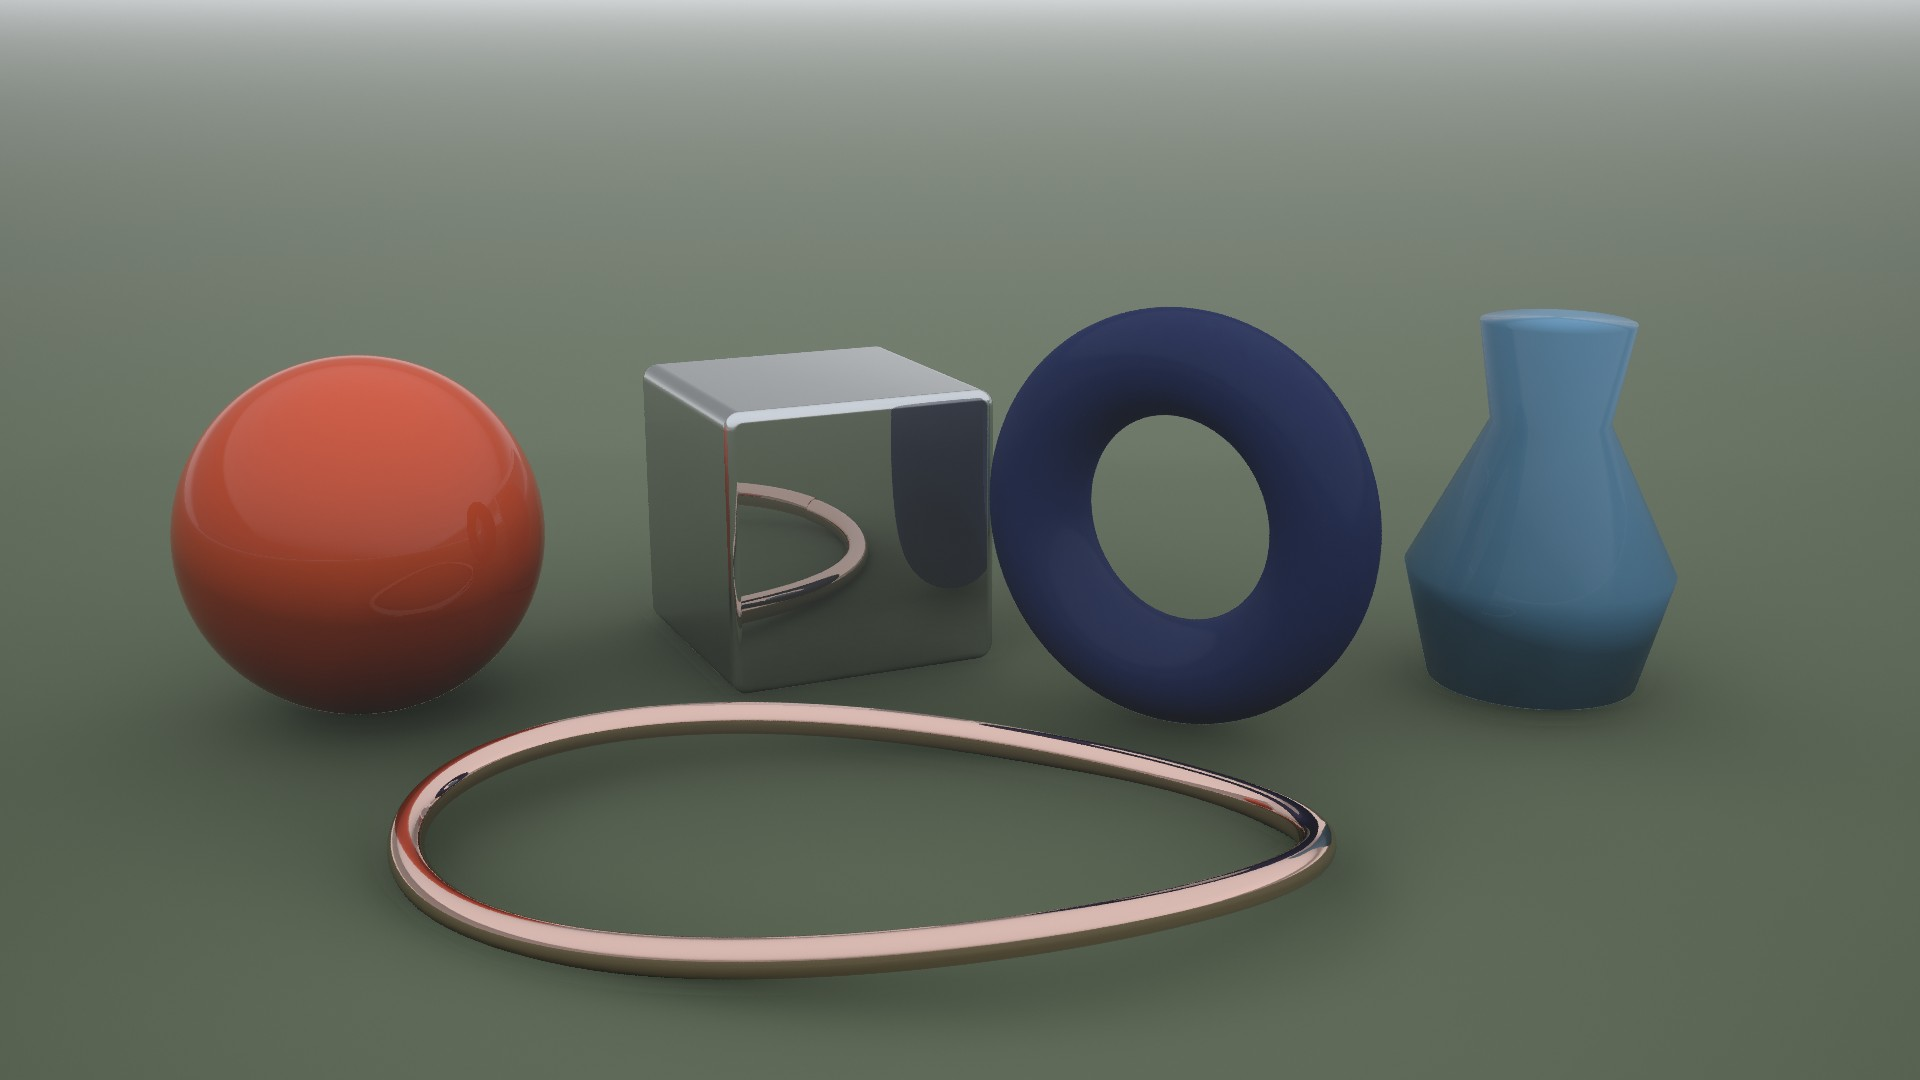
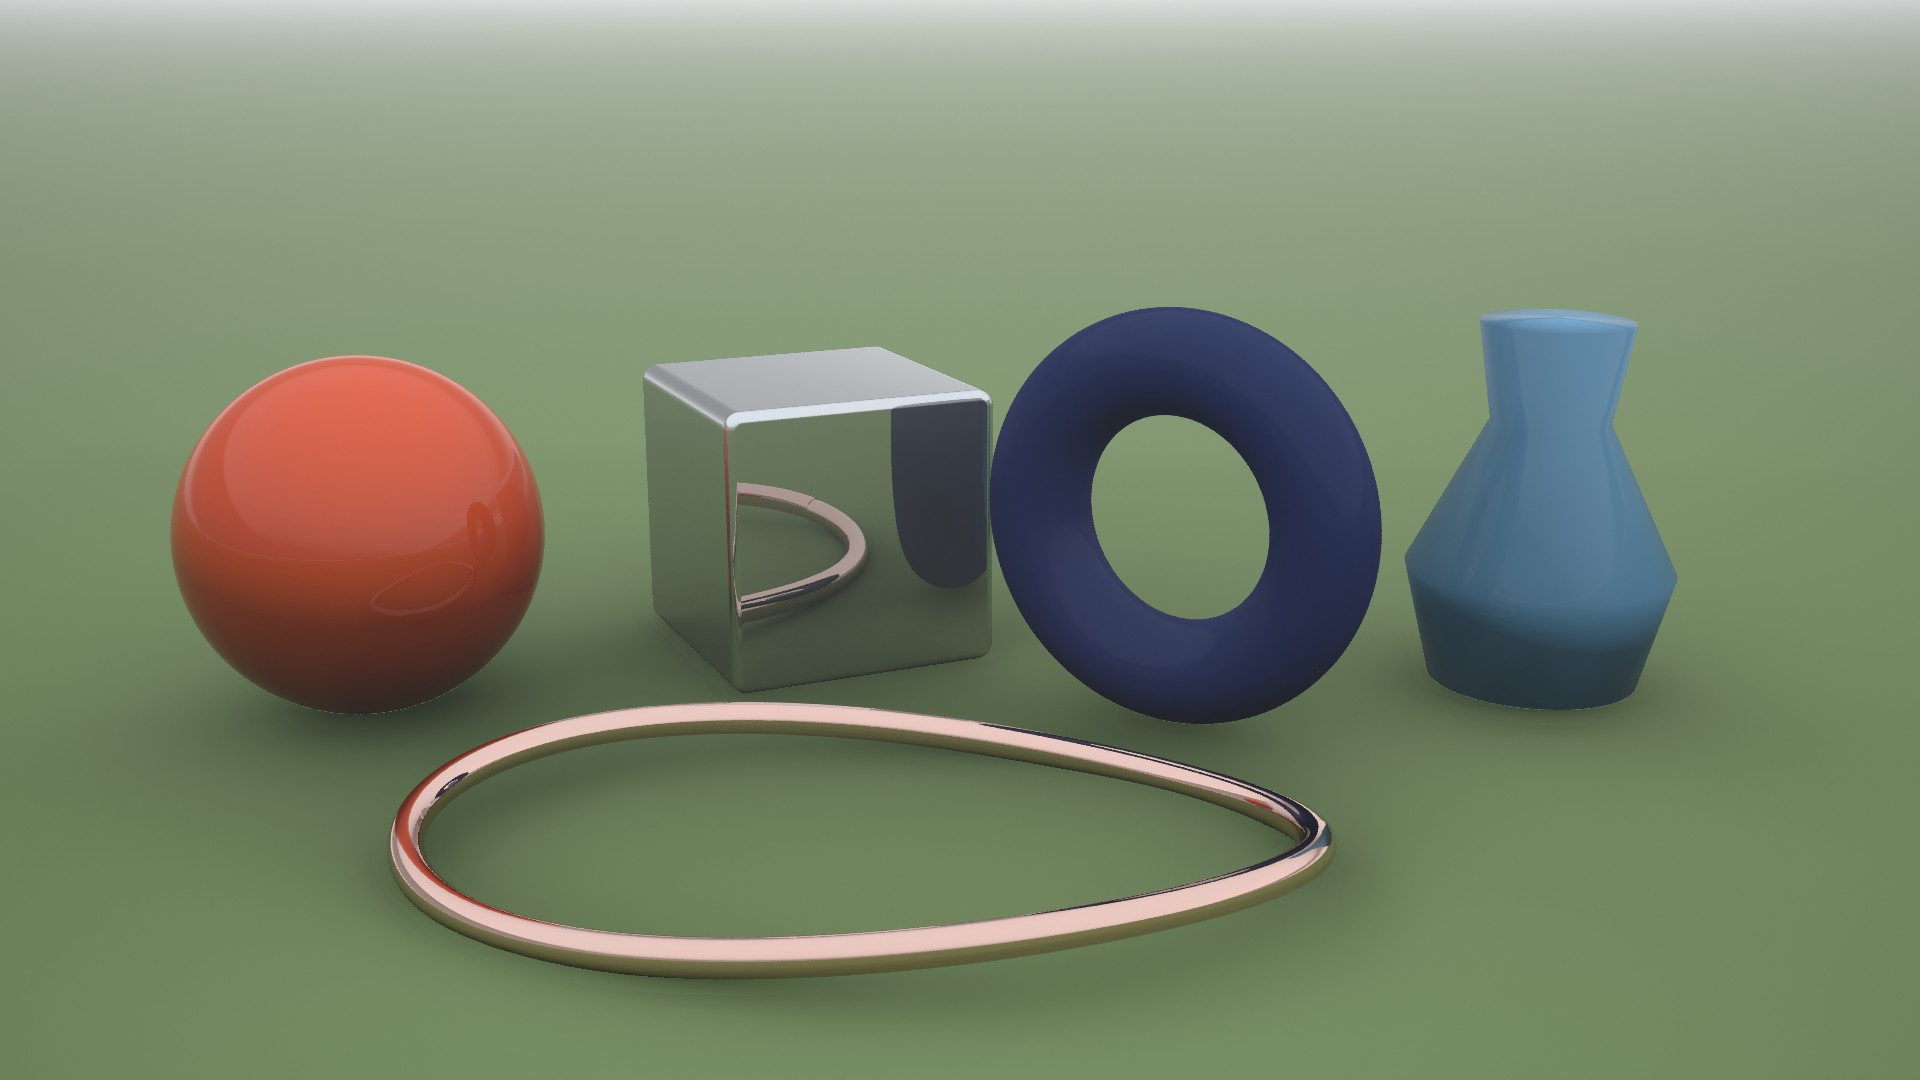
scene3d: hatching runs straight across the picture (no rings on curved surfaces); brighter, greener overcast
Claude-Session: https://claude.ai/code/session_01YBqaydDMTECMyYJKyJDHyy

diff --git a/crates/anikit-video/src/scene3d/mod.rs b/crates/anikit-video/src/scene3d/mod.rs
@@ -350,7 +350,7 @@ impl Prepare for Scene3d {
             v => {
                 let mut fp = if bright {
                     let color = match es.name.as_str() {
-                        "overcast" => v3(0.16, 0.19, 0.12),
+                        "overcast" => v3(0.2, 0.27, 0.12),
                         "interior" => v3(0.32, 0.19, 0.1),
                         "underwater" => v3(0.5, 0.45, 0.33),
                         _ => scale(es.tint, 0.92),
@@ -420,11 +420,11 @@ impl Prepare for Scene3d {
         let (backdrop, haze, auto_exp) = match es.name.as_str() {
             "overcast" | "interior" | "underwater" => {
                 let irr = luma(backdrop.0).max(1e-4) / floor_l;
-                let e = match es.name.as_str() { "overcast" => 0.95, "interior" => 0.8, _ => 0.62 } / irr;
+                let e = match es.name.as_str() { "overcast" => 1.15, "interior" => 0.8, _ => 0.62 } / irr;
                 let at = |c: V3, l: f32| scale(c, l / luma(c).max(1e-4) / e);
                 match es.name.as_str() {
                     "overcast" => {
-                        let sky = (at(v3(0.8, 0.82, 0.84), 0.82), at(v3(0.6, 0.65, 0.72), 0.62));
+                        let sky = (at(v3(0.86, 0.88, 0.9), 0.9), at(v3(0.62, 0.7, 0.8), 0.72));
                         (sky, (0.012, sky.0), e)
                     }
                     "interior" => ((at(v3(0.9, 0.86, 0.8), 0.62), at(v3(0.86, 0.82, 0.76), 0.55)), (0.0, backdrop.0), e),

diff --git a/crates/anikit-video/src/scene3d/trace.rs b/crates/anikit-video/src/scene3d/trace.rs
@@ -1274,13 +1274,18 @@ impl Scene {
                     let d = (u - 0.5).abs() * 2.0;
                     1.0 - smoothstep(width - 0.12, width + 0.12, d)
                 };
+                // Line planes contain the view ray, so strokes run straight across
+                // the picture like pen hatching (no rings on curved surfaces).
+                let right = norm(cross(v, up));
+                let upv = cross(right, v);
+                let (a1, a2) = (norm(add(right, upv)), norm(sub(right, upv)));
                 let w1 = (1.0 - t) * 0.95;
-                let mut ink = line(norm(v3(1.0, 1.0, 0.3)), 48.0, w1);
+                let mut ink = line(a1, 55.0, w1);
                 if t < 0.5 {
-                    ink = ink.max(line(norm(v3(1.0, -0.8, -0.4)), 48.0, (0.5 - t) * 1.6));
+                    ink = ink.max(line(a2, 55.0, (0.5 - t) * 1.6));
                 }
                 if t < 0.2 {
-                    ink = ink.max(line(norm(v3(0.2, 0.3, 1.0)), 110.0, (0.2 - t) * 3.0));
+                    ink = ink.max(line(right, 90.0, (0.2 - t) * 3.0));
                 }
                 let paper = lerp3(v3(0.92, 0.9, 0.85), base, 0.15);
                 let alb = scale(lerp3(paper, v3(0.05, 0.05, 0.07), ink), 1.0);
